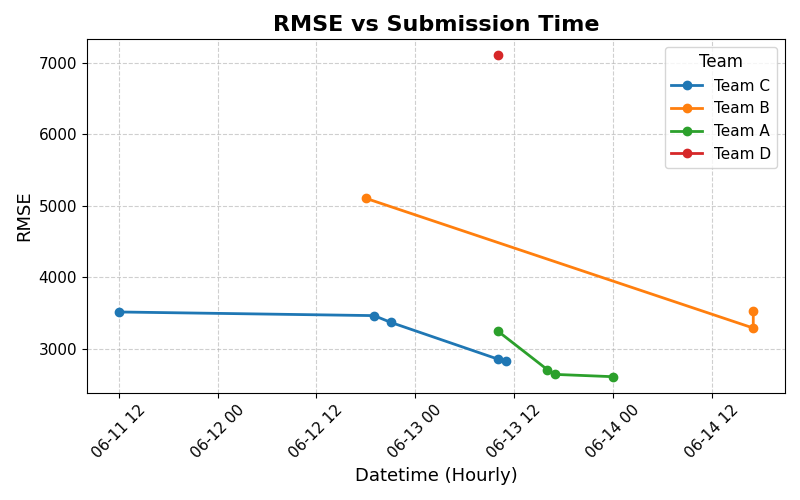
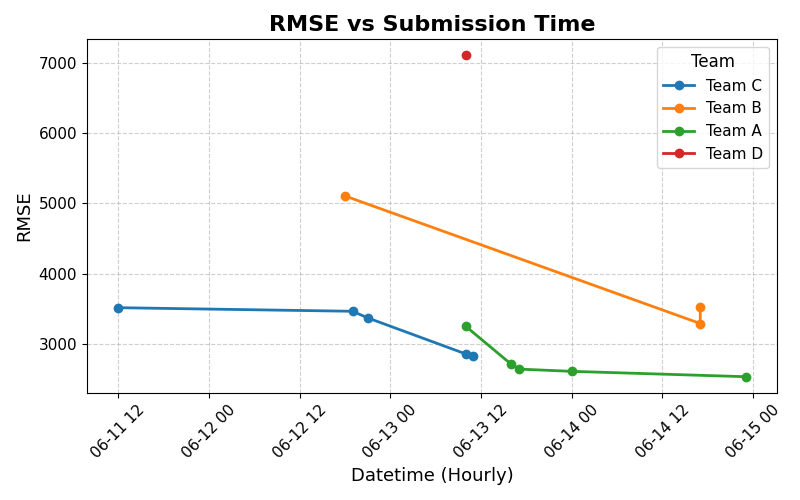
Ranking updated — 2025-06-15

diff --git a/README.md b/README.md
@@ -3,13 +3,13 @@
 
 | 순위 | 팀 이름 |   RMSE   |
 |------|--------|----------|
-| 1    | 팀 A    | 2606.444 |
+| 1    | 팀 A    | 2530.151 |
 | 2    | 팀 C    | 2825.721 |
 | 3    | 팀 B    | 3288.017 |
 | 4    | 팀 D    | 7107.612 |
 
 > 🔁 가장 최근 제출 중 **가장 낮은 RMSE**만 기록됩니다.
-> ⏱ 마지막 업데이트: 2025-06-14 21:09 (KST)
+> ⏱ 마지막 업데이트: 2025-06-15 01:43 (KST)
 ![RMSE Submission Graph](rmse_submission.png)
 
 ---
